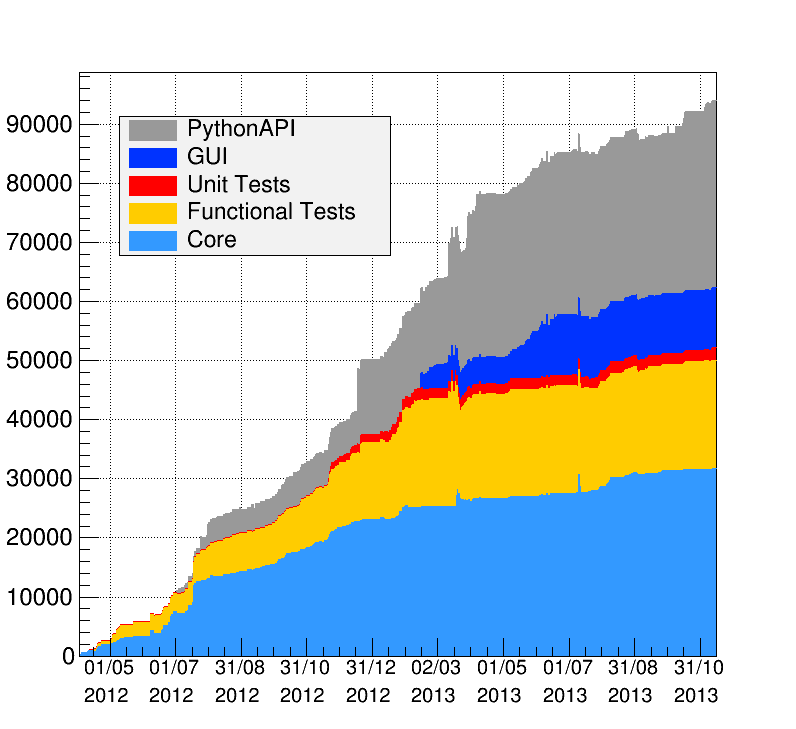
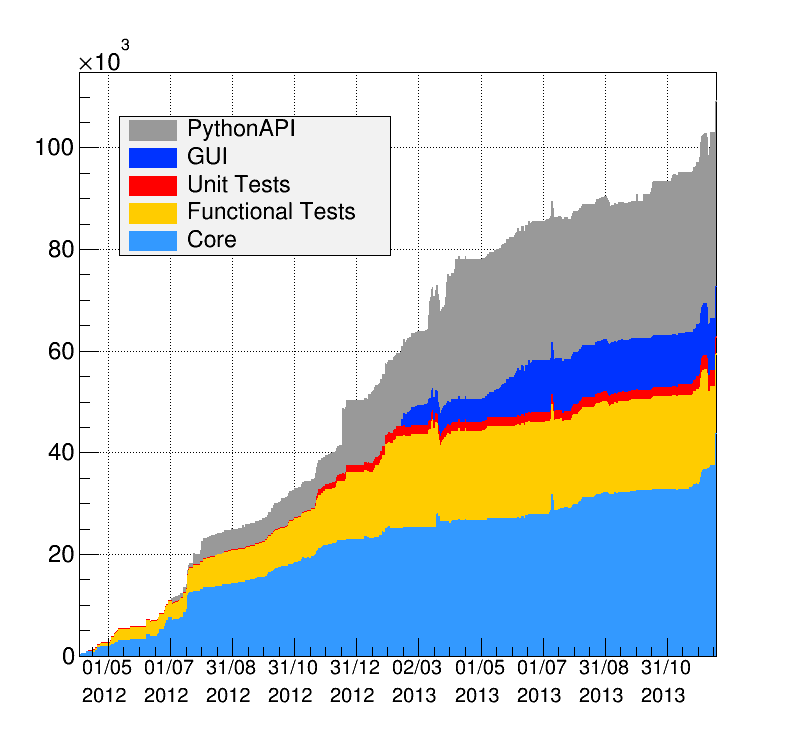
Ready to release

diff --git a/dev-tools/git-utils/cl_lines_of_code.py b/dev-tools/git-utils/cl_lines_of_code.py
@@ -72,11 +72,13 @@ def dirCore(x):
     if "/Core/Algorithms" in x: return True
     if "/Core/FormFactors" in x: return True
     if "/Core/Samples" in x: return True
+    if "/Core/StandardSamples" in x: return True
     if "/Core/Tools" in x: return True
     if "/Core/Fitting" in x: return True
     if "/Core/inc" in x: return True
     if "/Core/src" in x: return True
     if "/Fit/Factory" in x: return True
+    if "/Fit/FitKernel" in x: return True
     if "/Core/Geometry" in x: return True
     return False
 
